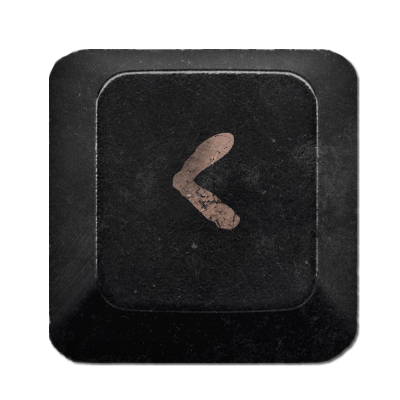
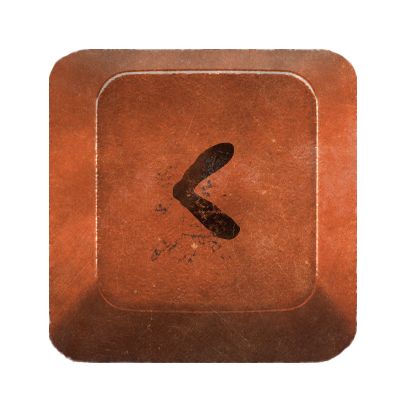
key buttons adjust

diff --git a/script.js b/script.js
@@ -729,7 +729,7 @@ createIconButton({ id: 'playPauseBtn', image: 'playpause.png', pressedImage: 'pl
 createIconButton({ id: 'nextTrackBtn', image: 'nexttrack.png', pressedImage: 'nexttrackpressed.png', onClick: nextTrack, topOffset: '30%', rightOffset: '20px' });
 createIconButton({ id: 'prevTrackBtn', image: 'prevtrack.png', pressedImage: 'prevtrackpressed.png', onClick: prevTrack, topOffset: '35%', rightOffset: '20px' });
 createIconButton({ id: 'muteBtn', image: 'mute.png', pressedImage: 'mutepressed.png', onClick: toggleMute, topOffset: '40%', rightOffset: '20px', toggle: true });
-const bbBtn = createIconButton({ id: 'bbBtn', image: 'bbkeyv4.png', pressedImage: 'bbkeypressedv4.png', onClick: () => {}, topOffset: '85%', rightOffset: '20px' });
+const bbBtn = createIconButton({ id: 'bbBtn', image: 'gregkey.png', pressedImage: 'gregkeypressed.png', onClick: () => {}, topOffset: '85%', rightOffset: '20px' });
 
 // Pulsating model effect
 let scaleFactor = 1;

diff --git a/style.css b/style.css
@@ -20,7 +20,8 @@ canvas {
   background-position: center;
   background-repeat: no-repeat;
   background-size: contain;
-  filter: brightness(0) drop-shadow(0 6px 5px #000) drop-shadow(0 10px 9px #000);
+  filter: brightness(0) drop-shadow(0 3px 3px #000) drop-shadow(0 5px 5px #000);
+  opacity: 0.7;
 }
 
 .track-title-backdrop {
